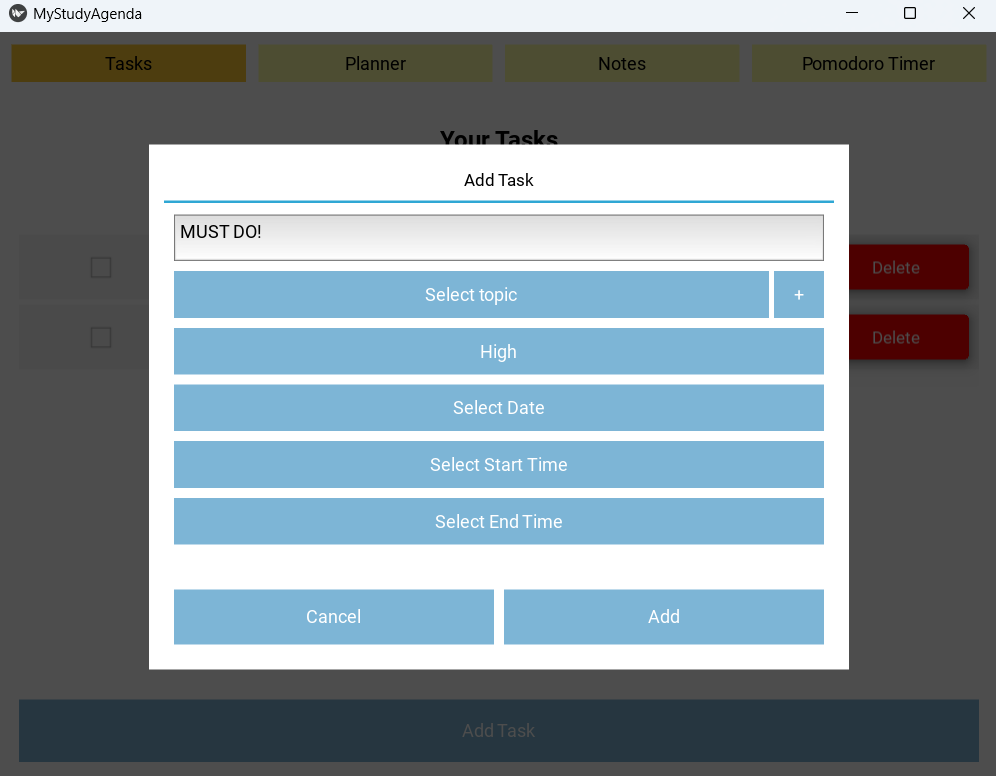
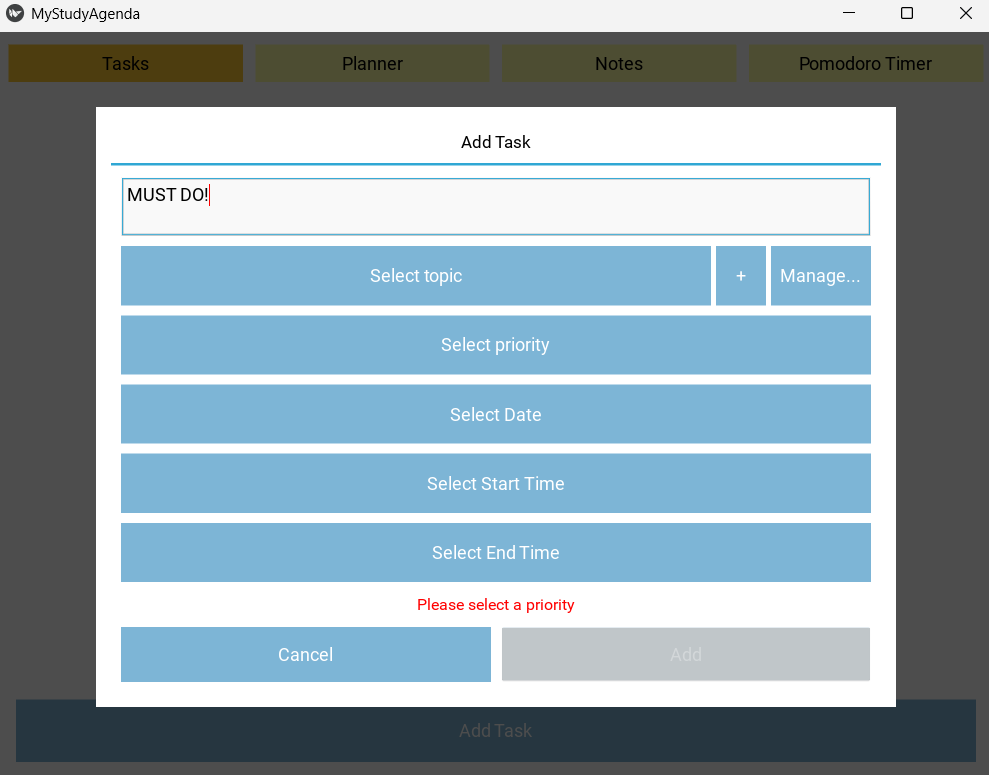
Updated the "Developer Guide" section

diff --git a/sections/09-userguide/index.md b/sections/09-userguide/index.md
@@ -6,30 +6,37 @@ nav_order: 10
 
 # User Guide
 
-Welcome to your new study (but not only) planner!
-Here, you can put your life together by writing down your tasks, assigning them a priority, and scheduling them in your preferred day and time-slot.
+Welcome to your all-in-one productivity hub! Whether you are a student balancing a heavy course load or a professional juggling complex projects, this planner is designed to help you put your life together.
 
-Moreover, if you're a fanat of productivity maximization, you can also set up a customized Pomodoro timer, with your preferred duration of work time and break time.
+**Plan with precision** - Take control of your schedule by logging tasks, assigning priorities, and slotting them into your ideal time-slots. It’s more than just a to-do list; it’s a roadmap for your day.
+
+**Capture every thought** -  Beyond scheduling, you can create custom notebooks and take detailed notes directly within the software, keeping your ideas in one unified place.
+
+**Optimize your focus** - If you are a fan of productivity maximization, our built-in Pomodoro Timer is your new best friend. Fully customize your work intervals and break durations to build a deep-work habit that sticks.
 
 ## How To Use
 ### Task Screen
 This is the first screen you will land on as soon as you start the software. Here you can create new tasks by pressing the button at the bottom of the page and compiling a few fields in a form.
+
 > Form to create new task
+
 <img src="../../pictures/task_form.png" style="width: 40%; height: auto;">
 
-This form forces you to not leave a blank ask description, and to select a priority level for this task, in order to better visualize your commitments.
+This form forces you to not leave a blank task description, and to select a priority level for this task, in order to better visualize your commitments.
 
 I you want, you can also associate the task to a specific topic (for instance, a university course subject) and/or schedule the task at your preferred day and time-slot.
 
 Once you have created a task, it will appear on the Task Screen. You will see that you have the possibility to later set up or change the scheduling data for each task, to delete each task, or even to simply tick it as completed but still keep it in the list.
 
 > Tasks list in task screen
+
 <img src="../../pictures/task_screen.png" style="width: 40%; height: auto;">
 
 ### Planner Screen
-This screen is ideal for proper time management and visualization,as it is structured like a weekly planner. Once you have written down all your tasks and commitment, you can also schedule them in your preferred day and time-slot via the Task Screen. Therefore, in the Planner Screen you can visualize them as colored rectangles taking a space in your day.
+This screen is ideal for proper time management and visualization,as it is structured like a weekly planner. Once you have written down all your tasks and commitments, you can also schedule them in your preferred day and time-slot via the Task Screen. Therefore, in the Planner Screen you can visualize them as colored rectangles taking a space in your day.
 
 > Planner view
+
 <img src="../../pictures/planner_screen.png" style="width: 40%; height: auto;">
 
 The different colors of the rectangles represent the different levels of priority:
@@ -37,7 +44,7 @@ The different colors of the rectangles represent the different levels of priorit
 - Yellow = medium priority
 - Red = high priority
 
-Each task is represented not only by its description, but also by the name of the topic associated to it (if any), so that it's easier for you to remember what you were referring to when you created and scheduled it.
+Each task is represented not only by its description, but also by the name of the topic associated to it (if any), so that it's easier for you to remember what type of activity you were referring to when you created and scheduled it.
 
 ### Notes Screen
 Since this software is thought for improving the quality of studying, it is also very useful to have a section where users can write down their personal notes.
@@ -46,23 +53,33 @@ Be it lecture notes or journaling, the notes section is very easy and intuitive 
 You can create new notes by pressing the button at the bottom of the page and compiling a few fields in a form. Here, you will simply be asked to choose a title for your notebook and, if you'd like, also a topic associated to it.
 
 > Form to create a new note
+
 <img src="../../pictures/notes_form.png" style="width: 40%; height: auto;">
 
-Once you click on the "Cerate" button, you will be immediately directed inside the notebook and can start taking notes right away. Press the "Save" button on the bottom-left of the screen if you'd like to save your changes. Press the "Back" button if you would like to go back to the notes screen. If you press "Back" without having saved your changes, they will be lost.
+Once you click on the "Create" button, you will be immediately directed inside the notebook and can start taking notes right away. Press the "Save" button on the bottom-left of the screen if you'd like to save your changes. Press the "Back" button if you would like to go back to the notes screen. If you press "Back" without having saved your changes, they will be lost.
 
 After you have created a new note, it will appear on the Notes Screen. Here, you can open pre-existing notes to edit them or even just visualize their content, or you can delete them.
 
 > Notes screen
+
 <img src="../../pictures/notes_screen.png" style="width: 40%; height: auto;">
 
-### Pomodoro Timer Screen
-The Pomodoro timer screen is ideal for all those users that like to have fixedtime intervals for their working and break times.
+### Topics Management
+In both the task and note creation forms, you will also find the possibility to manage topics. Imagine you have created a topic to associate to your tasks and notes that is related to a specific university course. Once you have terminated that course, still having that topic in the software could be totally useless for you. Therefore, by clicking on the "Manage..." button in one of the forms allows you to clean up your topics list by deleting obsolete ones.
 
-The traditional [Pomodoro technique](https://en.wikipedia.org/wiki/Pomodoro_Technique) sees 25 minutes for deep concentration working time, and 5-minute breaks. Therefore, as soon as you land on this screen, you wil find study time and break time set, respectively, to these values.
+> Topic management popup
+
+<img src="../../pictures/topic_management.png" style="width: 40%; height: auto;">
+
+### Pomodoro Timer Screen
+The Pomodoro timer screen is ideal for all those users that like to have fixed time intervals for their working and break times.
+
+The traditional [Pomodoro technique](https://en.wikipedia.org/wiki/Pomodoro_Technique) sees 25 minutes for deep concentration working time, and 5-minute breaks. Therefore, as soon as you land on this screen, you wil find study time and break time already set, respectively, to these values.
 
 However, it is possible to customize both of these values by clicking on the numbers and then selecting the preferred duration from the spinner. In particular, for the study time it is possible to choose any value that is a multiple of 5, up to a maximum of 120 minutes, while for the break time the maximum is 60 minutes.
 
 > Pomodoro screen
+
 <img src="../../pictures/pomodoro_screen.png" style="width: 40%; height: auto;">
 
 Once you have selected your preferred values, you can start the timer with the "Start" button.
@@ -76,4 +93,5 @@ When the study timer finishes, it automatically switches to the break timer (and
 Both timers continue in loop until the user stops the session or closes the software. While the timer is on, the user is free to navigate the other software screens.
 
 > Timer finished alert
+
 <img src="../../pictures/timer_alert.png" style="width: 40%; height: auto;">